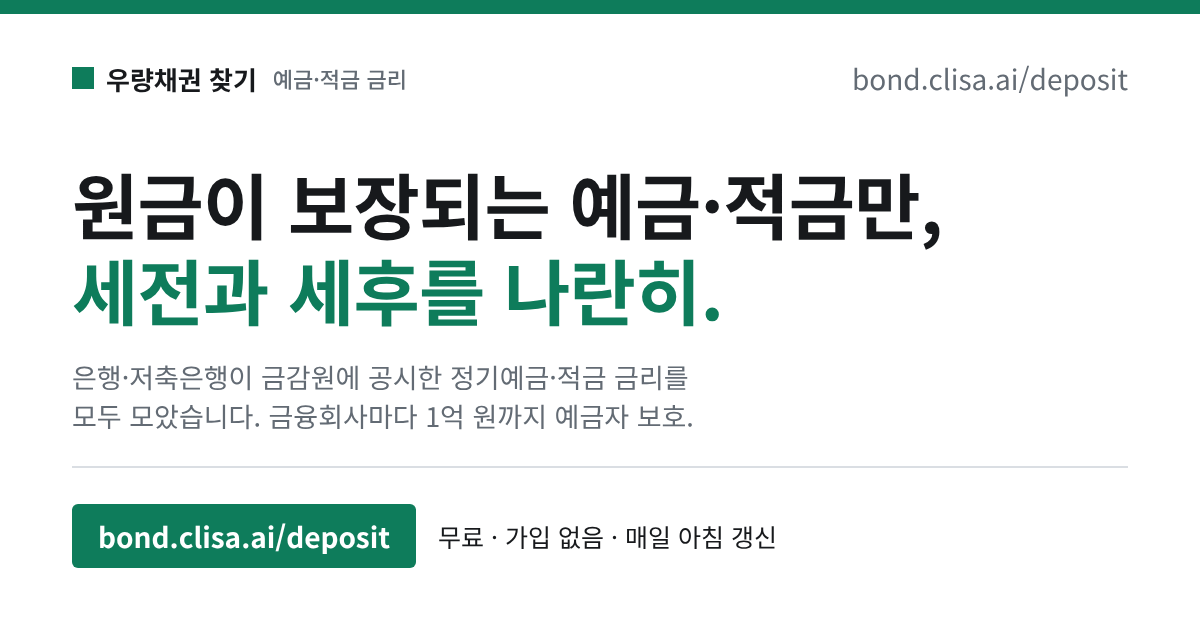
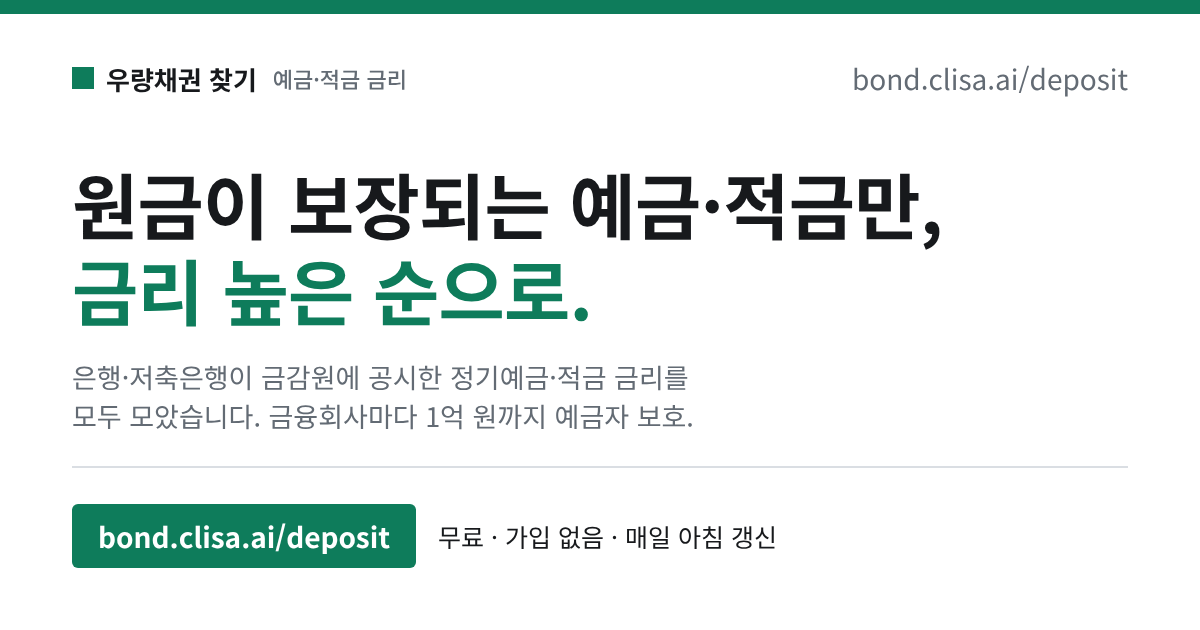
예금 페이지 첫 줄 문구: 방문자 기준으로
"세전과 세후를 나란히"는 내부 고민이지 방문자가 찾는 말이 아니라서 "원금이 보장되는 예금·적금만, 금리 높은 순으로."로 바꿈. 카톡 카드·메타 문구 같이 수정, 채권 페이지의 세전 안내 문장 제거

Claude-Session: https://claude.ai/code/session_01Scji39tdkA7BEhXGi6nn83

Changed region(s): [[0.0617, 0.3921, 0.6167, 0.5429]]

diff --git a/docs/deposit/index.html b/docs/deposit/index.html
@@ -1,9 +1,9 @@
 <!doctype html><html lang="ko"><head><meta charset="utf-8"><meta name="viewport" content="width=device-width,initial-scale=1">
 <title>예금·적금 금리 찾기 — 우량채권 찾기</title>
-<meta name="description" content="원금이 보장되는 예금·적금만, 세전과 세후를 나란히. 은행·저축은행이 금융감독원에 공시한 정기예금·적금 금리를 모두 모았습니다.">
+<meta name="description" content="원금이 보장되는 예금·적금만, 금리 높은 순으로. 은행·저축은행이 금융감독원에 공시한 정기예금·적금 금리를 모두 모았습니다. 1억 원까지 예금자 보호.">
 <meta property="og:type" content="website">
 <meta property="og:site_name" content="우량채권 찾기">
-<meta property="og:title" content="예금·적금 금리 찾기 — 원금이 보장되는 상품만, 세전과 세후를 나란히.">
+<meta property="og:title" content="예금·적금 금리 찾기 — 원금이 보장되는 예금·적금만, 금리 높은 순으로.">
 <meta property="og:description" content="은행·저축은행이 금융감독원에 공시한 정기예금·적금 금리를 모두 모았습니다. 1억 원까지 예금자 보호 · 무료 · 가입 없음 · 매일 아침 갱신">
 <meta property="og:url" content="https://bond.clisa.ai/deposit/">
 <meta property="og:image" content="https://bond.clisa.ai/deposit/og.png">
@@ -147,7 +147,7 @@ button.copy:focus-visible,tbody tr:focus-visible,select:focus-visible,.hero .c:f
 </head><body>
 <div class="bar"><div class="in">
   <span class="name"><a href="/">우량채권 찾기</a>예금·적금 금리 찾기</span><span class="date" id="basdt"></span><span class="btns"><a class="go" href="/">← 우량채권</a><a class="go" href="#tax">세금 계산 방법</a><a class="go" href="#caution">유의 사항</a><a class="go" href="#source">자료 출처</a></span>
-  <span class="what"><b>원금이 보장되는 예금·적금만, 세전과 세후를 나란히.</b> 은행·저축은행이 금융감독원에 공시한 정기예금·적금 금리를 모두 모았습니다. 모두 금융회사마다 1억 원까지 예금자 보호를 받는 상품입니다.</span>
+  <span class="what"><b>원금이 보장되는 예금·적금만, 금리 높은 순으로.</b> 은행·저축은행이 금융감독원에 공시한 정기예금·적금 금리를 모두 모았습니다. 모두 금융회사마다 1억 원까지 예금자 보호를 받는 상품이며, 금리는 은행 광고와 같은 세전 기준이고 세후를 옆에 적었습니다.</span>
 </div></div>
 <div class="wrap">
 

diff --git a/docs/index.html b/docs/index.html
@@ -154,7 +154,7 @@ button.copy:focus-visible,tbody tr:focus-visible,select:focus-visible,.hero .c:f
 </head><body>
 <div class="bar"><div class="in">
   <span class="name">우량채권 찾기</span><span class="date" id="basdt"></span><span class="btns"><a class="go" href="/deposit/">예금·적금 금리 →</a><a class="go" href="#tax">세금 계산 방법</a><a class="go" href="#caution">유의 사항</a><a class="go" href="#source">자료 출처</a></span>
-  <span class="what"><b>예금보다 높은 이자, A등급 이상만.</b> 거래소에서 오늘 살 수 있는 A등급 이상 채권을 세후 수익률로 모두 모았습니다. 증권사 화면에 나오는 세전 수익률도 나란히 적었습니다. 어느 증권사 앱에서든 종목코드로 살 수 있는 채권만 담았습니다.</span>
+  <span class="what"><b>예금보다 높은 이자, A등급 이상만.</b> 거래소에서 오늘 살 수 있는 A등급 이상 채권을 세후 수익률로 모두 모았습니다. 어느 증권사 앱에서든 종목코드로 살 수 있는 채권만 담았습니다.</span>
 </div></div>
 <div class="wrap">
 
